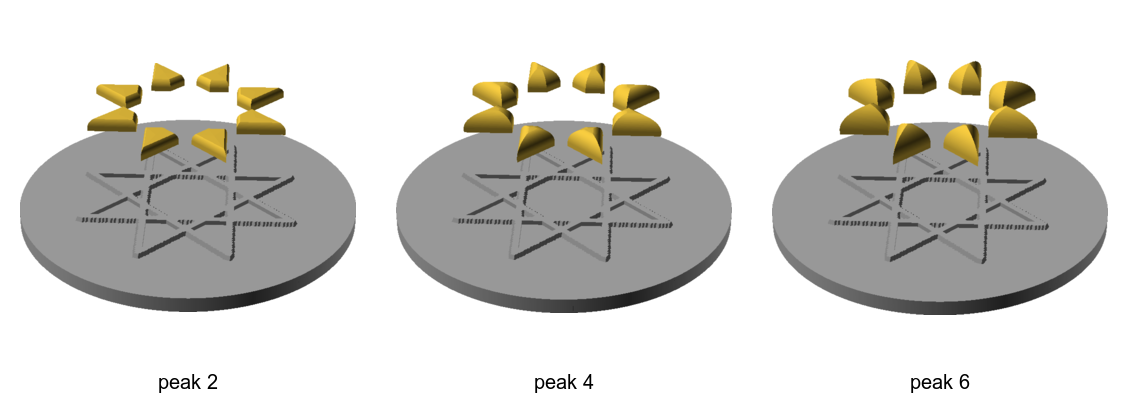
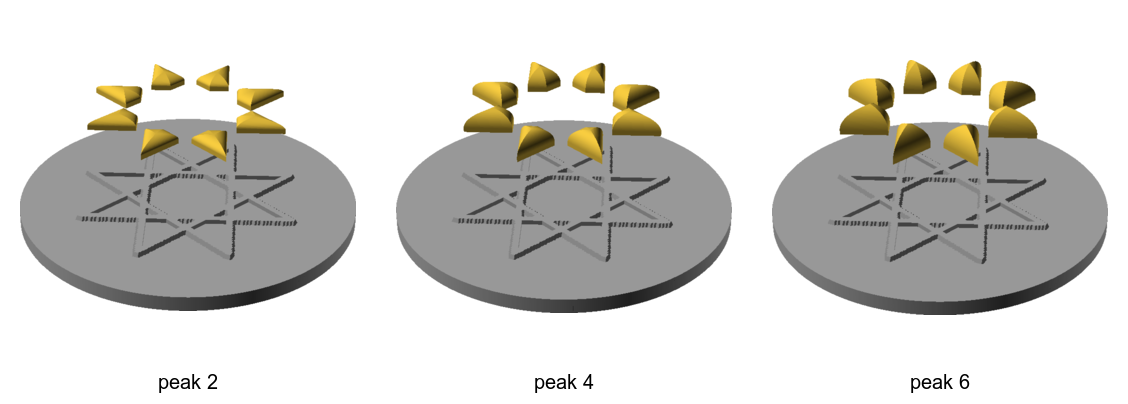
sheets-04: both prints shown side by side, and the peak's flat top fixed (bikar #299) (#478)
The sheets-04 page now shows the flat and the peaked pieces together: a side cut through
one hexagon of each in its hole, true scale, and a PEAK 2 row in the fit table (+0.150 mm,
none of 120 corners inside the wall).

Drawing that cut showed the 2 mm peak came out flat on top: the curve stopped part way in
when the peak was lower than the piece's radius. bikar #299 makes a low peak a round dome
that closes in the middle. The plate is re-sliced on bikar main (62 minutes, 17 g, no
slicer warnings), the cookbook picture and its "watch out" text are redrawn, and the
peaked-pieces page gets corrected pictures under its decision, with the old ones kept as
the record of what was decided from.

Claude-Session: https://claude.ai/code/session_01ErceEzWXb2nsHFJMatb8Bz

diff --git a/docs/plates/sheets-04.md b/docs/plates/sheets-04.md
@@ -21,6 +21,7 @@ risk: watch
 pictures:
   - sheets-04-media/bed-map.png
   - sheets-04-media/fit-in-coaster.png
+  - sheets-04-media/flat-and-peaked.png
   - sheets-04-media/gbv-frame-and-pieces.png
 ---
 
@@ -48,10 +49,10 @@ the coaster is the whole test, and the pieces sit loose in its holes.
 | COASTER | the gBV minimal coaster, once: 90 mm, 3 mm straps, 4 mm tall, no base |
 | GAP 05, GAP 10, GAP 15, GAP 20 | the middle ring (orbit 2): ten six-sided pieces at radius 19.9 mm, at that gap per face |
 | STAR 15 | the next ring out (orbit 3): ten small five-point stars at radius 28.3 mm, at 0.15 |
-| PEAK 2 | the middle ring again at 0.15, each piece with a 2 mm peak: the same wall, then a soft curve up to a point |
+| PEAK 2 | the middle ring again at 0.15, each piece with a 2 mm peak: the same wall, then a low round dome up to the middle |
 
 The pieces are 1.2 mm thick, so in the 4 mm coaster they sit below the top and the fit is read on
-the walls. The peaked set is 3.2 mm at its point, still under the top. The rings were read off `bikar bands`. The gap is taken off the piece, so one coaster
+the walls. The peaked set is 3.2 mm in the middle, still under the top. The rings were read off `bikar bands`. The gap is taken off the piece, so one coaster
 takes every set. Each set is its own plate item and goes in its own bag straight off the plate,
 labelled with its code, because the sets look alike. The bed map below says which set is where.
 
@@ -70,7 +71,7 @@ coaster is the better test, and it takes less filament (15 g against 22, in the 
 - **What to read off it:** for each bag, drops in / pressed in / will not go; tips catch or not.
   For PEAK 2, also whether 2 mm reads as the look you wanted in the hand
   ([the peaked-pieces page](../working-model/feedback-requests/2026-10-02-peaked-pieces.md)),
-  and whether the point prints clean.
+  and whether the dome prints clean.
 
 ## The fit in the coaster
 
@@ -86,6 +87,7 @@ corner is inside the wall.
 | GAP 15 | +0.150 mm | none of 120 |
 | GAP 20 | +0.200 mm | none of 120 |
 | STAR 15 | +0.150 mm | none of 200 |
+| PEAK 2 | +0.150 mm | none of 120 |
 
 ![A hexagon at 0.15 and a star at 0.15 in the coaster's holes, every corner at its full gap](sheets-04-media/fit-in-coaster.png)
 
@@ -105,6 +107,14 @@ rings and the peaked ring look much the same from above, so bag them by this map
 `print_review.py bed`, from the bed map compose writes beside the plate.
 
 ![The sheets-04 bed: the coaster, four hexagon rings at four gaps, the star ring and the peaked ring, each labelled](sheets-04-media/bed-map.png)
+
+The two kinds of piece side by side, cut through the middle of one hexagon in its hole, true
+scale: a flat GAP 15 piece on top, a PEAK 2 piece below. Grey is the coaster's straps, gold the
+piece. The peaked piece keeps the same 1.2 mm wall and the same gap, then rises in a low round dome
+to 3.2 mm in the middle, still under the coaster's 4 mm top. A cut across the piece the other way
+looks the same.
+
+![Side cut through a flat GAP 15 piece and a PEAK 2 piece in their holes: the flat one 1.2 mm tall, the peaked one a low dome to 3.2 mm](sheets-04-media/flat-and-peaked.png)
 
 The coupon's frame and its 41 loose pieces at 80 mm, all five rings at 0.15 mm, from the first
 version of this plate: the frame alone on the left, the pieces lifted above their pockets on the
@@ -135,6 +145,10 @@ layer watched; if that is a no, the pieces stay off the plate (loose-pieces §3.
   narrowest at 0.05 and 8.67 mm at 0.20; the stars are ten bodies, 2.10 mm.
 - The peaked set: the same file with `peak 2` (bikar #298). It passes the mesh check: ten bodies,
   3.2 mm tall, 8.77 mm across at its narrowest. Nothing has printed with a peak yet.
+- The first peaked slice had a flat top. A 2 mm peak is lower than these hexes are from edge to
+  middle, and the curve stopped part way in, leaving a flat lid over about 80% of each piece's top.
+  bikar #299 makes a low peak a round dome that closes in the middle; the side cut above is drawn
+  from the fixed pieces, and the plate is sliced on them.
 - The plate gives each set a `label:`, and `bambu slice compose` writes the bed map from it.
 
 ## Your call
@@ -161,3 +175,4 @@ Notes:
 | 2026-10-02 | sliced — re-sliced on the coaster with exact holes (bikar #297); every set keeps its full gap; 56 minutes, 15 g | this page |
 | 2026-10-02 | approved — as it stands, by Omar on this page (ticked before the peaked set was added) | this page |
 | 2026-10-02 | sliced — PEAK 2 added at Omar's call ([D-091](../working-model/decisions-log.md#d-091--peaked-loose-pieces-2-mm-tried-on-the-gbv-fit-sheet)), the middle ring at 0.15 with a 2 mm peak; 62 minutes, 17 g | this page |
+| 2026-10-02 | sliced — re-sliced after bikar #299, which fixed the peaked pieces' flat top; both kinds of piece shown side by side, PEAK 2 keeps its full gap; 62 minutes, 17 g | this page |

diff --git a/docs/cookbook/coaster-knobs.md b/docs/cookbook/coaster-knobs.md
@@ -321,7 +321,8 @@ were, then lifts its top that many millimetres to a point over the piece's middl
 leaves the wall going straight up and curves in to the point, like a pointed dome, so the
 pieces look soft and rounded rather than cut flat. The picture lifts the eight four-sided
 pieces above their pockets with the top rising 2, 4 and 6 mm: the higher the peak, the
-taller and more pointed each dome. Leave `peak` off, or write `peak 0`, for a flat top.
+taller and more pointed each dome. Every one meets in the middle at its full height; none is
+cut flat on top. Leave `peak` off, or write `peak 0`, for a flat top.
 
 <!-- recipe: coaster-loose-peak; swap: peak 2 | peak 4 | peak 6 -->
 ```bkr
@@ -347,9 +348,10 @@ coaster Coaster
 ```
 ![Gold pieces lifted above their pockets with tops rising 2, 4 and 6 mm to a point](img/coaster-loose-peak.png)
 
-**Watch out:** the same peak looks different on different sizes of piece. It is a tall
-point on a narrow piece and only a low dome on a wide one: 6 mm on this star's wide
-centre octagon barely rises. A cup no longer sits flat on peaked pieces, so a peaked
+**Watch out:** the same peak looks different on different sizes of piece. A peak at least
+as tall as the distance from the piece's edge to its middle comes to a point; a lower one is a round
+dome, flatter the wider the piece, that still reaches its full height in the middle. In the
+picture the 2 mm peaks are low domes and the 6 mm ones come to a point. A cup no longer sits flat on peaked pieces, so a peaked
 coaster is mostly for looking at. A piece whose middle cannot
 see all of its own edge (a U or a crescent) would fold its top over itself, so bikar refuses
 a peak on it by name; the same piece is fine flat. Nothing has printed with a peak yet.

diff --git a/docs/working-model/feedback-requests/2026-10-02-peaked-pieces.md b/docs/working-model/feedback-requests/2026-10-02-peaked-pieces.md
@@ -49,6 +49,18 @@ their default gap.
 
 **Decided 2026-10-02:** 2 mm → [D-091](../decisions-log.md#d-091--peaked-loose-pieces-2-mm-tried-on-the-gbv-fit-sheet)
 
+**Corrected 2026-10-02, after the decision.** The pictures above had a fault at 2 and 4 mm.
+When a peak was lower than the piece is from its edge to its middle, the curve stopped part way
+in and the top was cut flat. At 2 mm the gold hexes had a flat lid over most of their top, and
+at 4 mm a smaller one. bikar #299 fixed it: a low peak is now a round dome that still
+reaches its full height in the middle. These are the same four views drawn with the fix. 6 mm and
+the blue stars did not change. The 2 mm hexes are now low domes rather than flat-topped pieces,
+so it is worth a second look before the sheet prints. The decision stands until you change it.
+
+![The same four options drawn with the fix: flat, then peaked 2, 4 and 6 mm](2026-10-02-peaked-pieces-media/whole-coaster-fixed.png)
+
+![The same four, seen from low across the coaster, with the fix](2026-10-02-peaked-pieces-media/side-view-fixed.png)
+
 ## 2. Where to try it in plastic
 
 **In short.** The [gBV fit sheet](../../plates/sheets-04.md) already prints the gBV pieces flat
